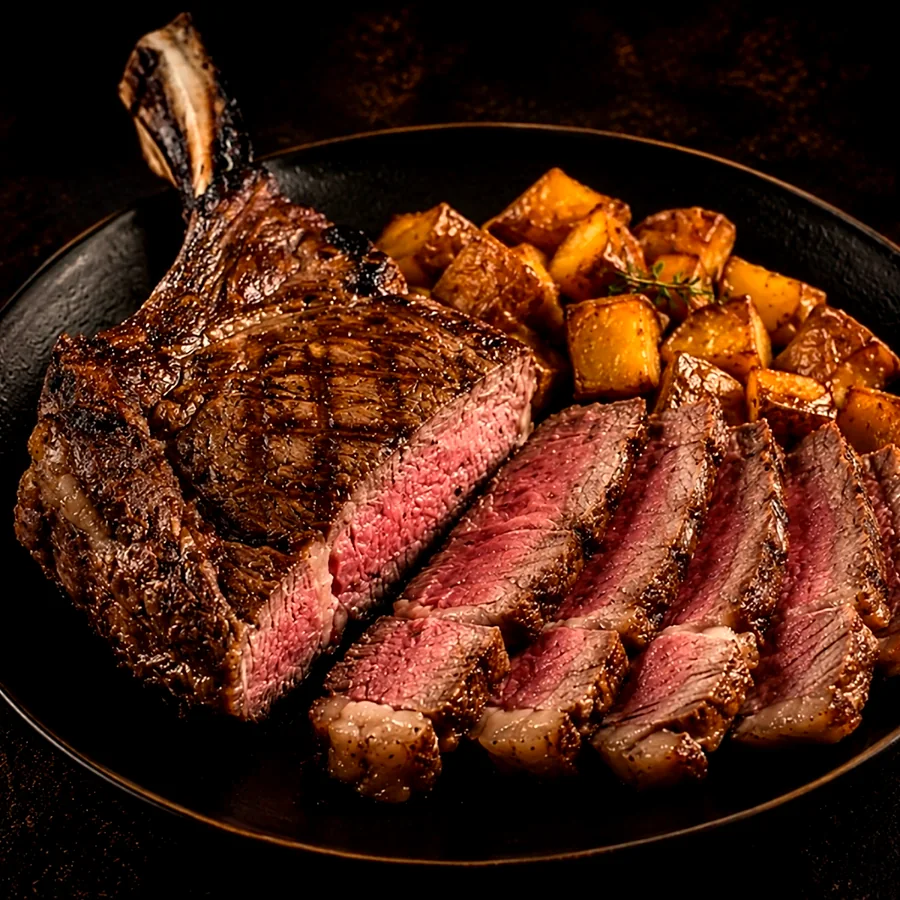
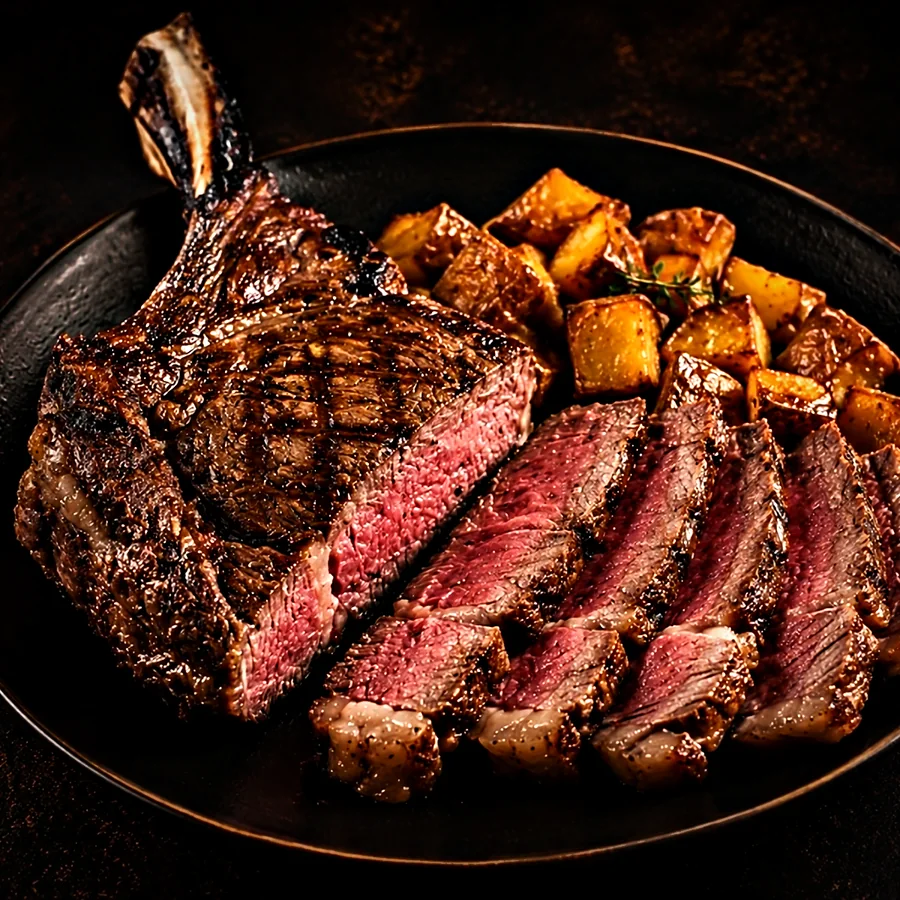
Tratamento de imagem próprio para as carnes
- Vermelhos e dourados mais ricos, mais relevo na crosta e nas marcas da grelha
- Brilho nos sucos, sombras mais profundas e vinheta suave
- Aplicado às carnes, pratos executivos com carne, salsichas e capas

Claude-Session: https://claude.ai/code/session_01X1TrFd1SnAQkF5TDkCdaUb

diff --git a/sw.js b/sw.js
@@ -2,8 +2,8 @@
 // Paginas/codigo: tenta sempre a versao mais recente; sem rede usa a guardada.
 // Imagens: mostra logo a guardada e atualiza-a em segundo plano.
 
-const SHELL_CACHE = "brasa-shell-v9";
-const IMAGE_CACHE = "brasa-images-v2";
+const SHELL_CACHE = "brasa-shell-v10";
+const IMAGE_CACHE = "brasa-images-v3";
 const SHELL_FILES = ["./", "index.html", "fonts.css", "style.css", "menu-data.js", "assets/fotos/hd/lista.js", "script.js", "manifest.webmanifest"];
 
 self.addEventListener("install", (event) => {

diff --git a/assets/fotos/hd/lista.js b/assets/fotos/hd/lista.js
@@ -1,2 +1,2 @@
 // Gerado automaticamente: fotos com versao em alta resolucao.
-window.MENU_HD_PHOTOS = ["costela-em-tiras.webp", "costeletao.webp", "entrecote.webp", "fraldinha.webp", "grelhada-mista.webp", "maminha.webp", "picanha.webp", "t-bone.webp", "tomahawk.webp"];
+window.MENU_HD_PHOTOS = ["costela-em-tiras.webp", "costeletao-premium.webp", "costeletao.webp", "entrecote.webp", "fraldinha.webp", "grelhada-mista.webp", "maminha.webp", "picanha.webp", "t-bone.webp", "tomahawk.webp"];

diff --git a/README.md b/README.md
@@ -47,6 +47,8 @@ Tudo está em **`menu-data.js`**:
 - Algumas fotos limpas foram obtidas apagando o texto das imagens do Canva (copos de vinho,
   charutos, pratos executivos…). Se notar alguma mancha, troque por uma foto nova.
 - As fotos levaram um tratamento de cor (mais quentes, com mais contraste e nitidez).
+  As carnes têm um tratamento próprio: vermelhos e dourados mais ricos, mais relevo
+  na crosta e nas marcas da grelha, brilho nos sucos e margens escurecidas.
   Fotos novas que acrescentar entram como estão.
 - `assets/fotos/hd/` tem versões em alta resolução (1200 px), usadas no detalhe e no ecrã
   inteiro. Se uma foto não tiver versão HD, usa-se a normal automaticamente.
